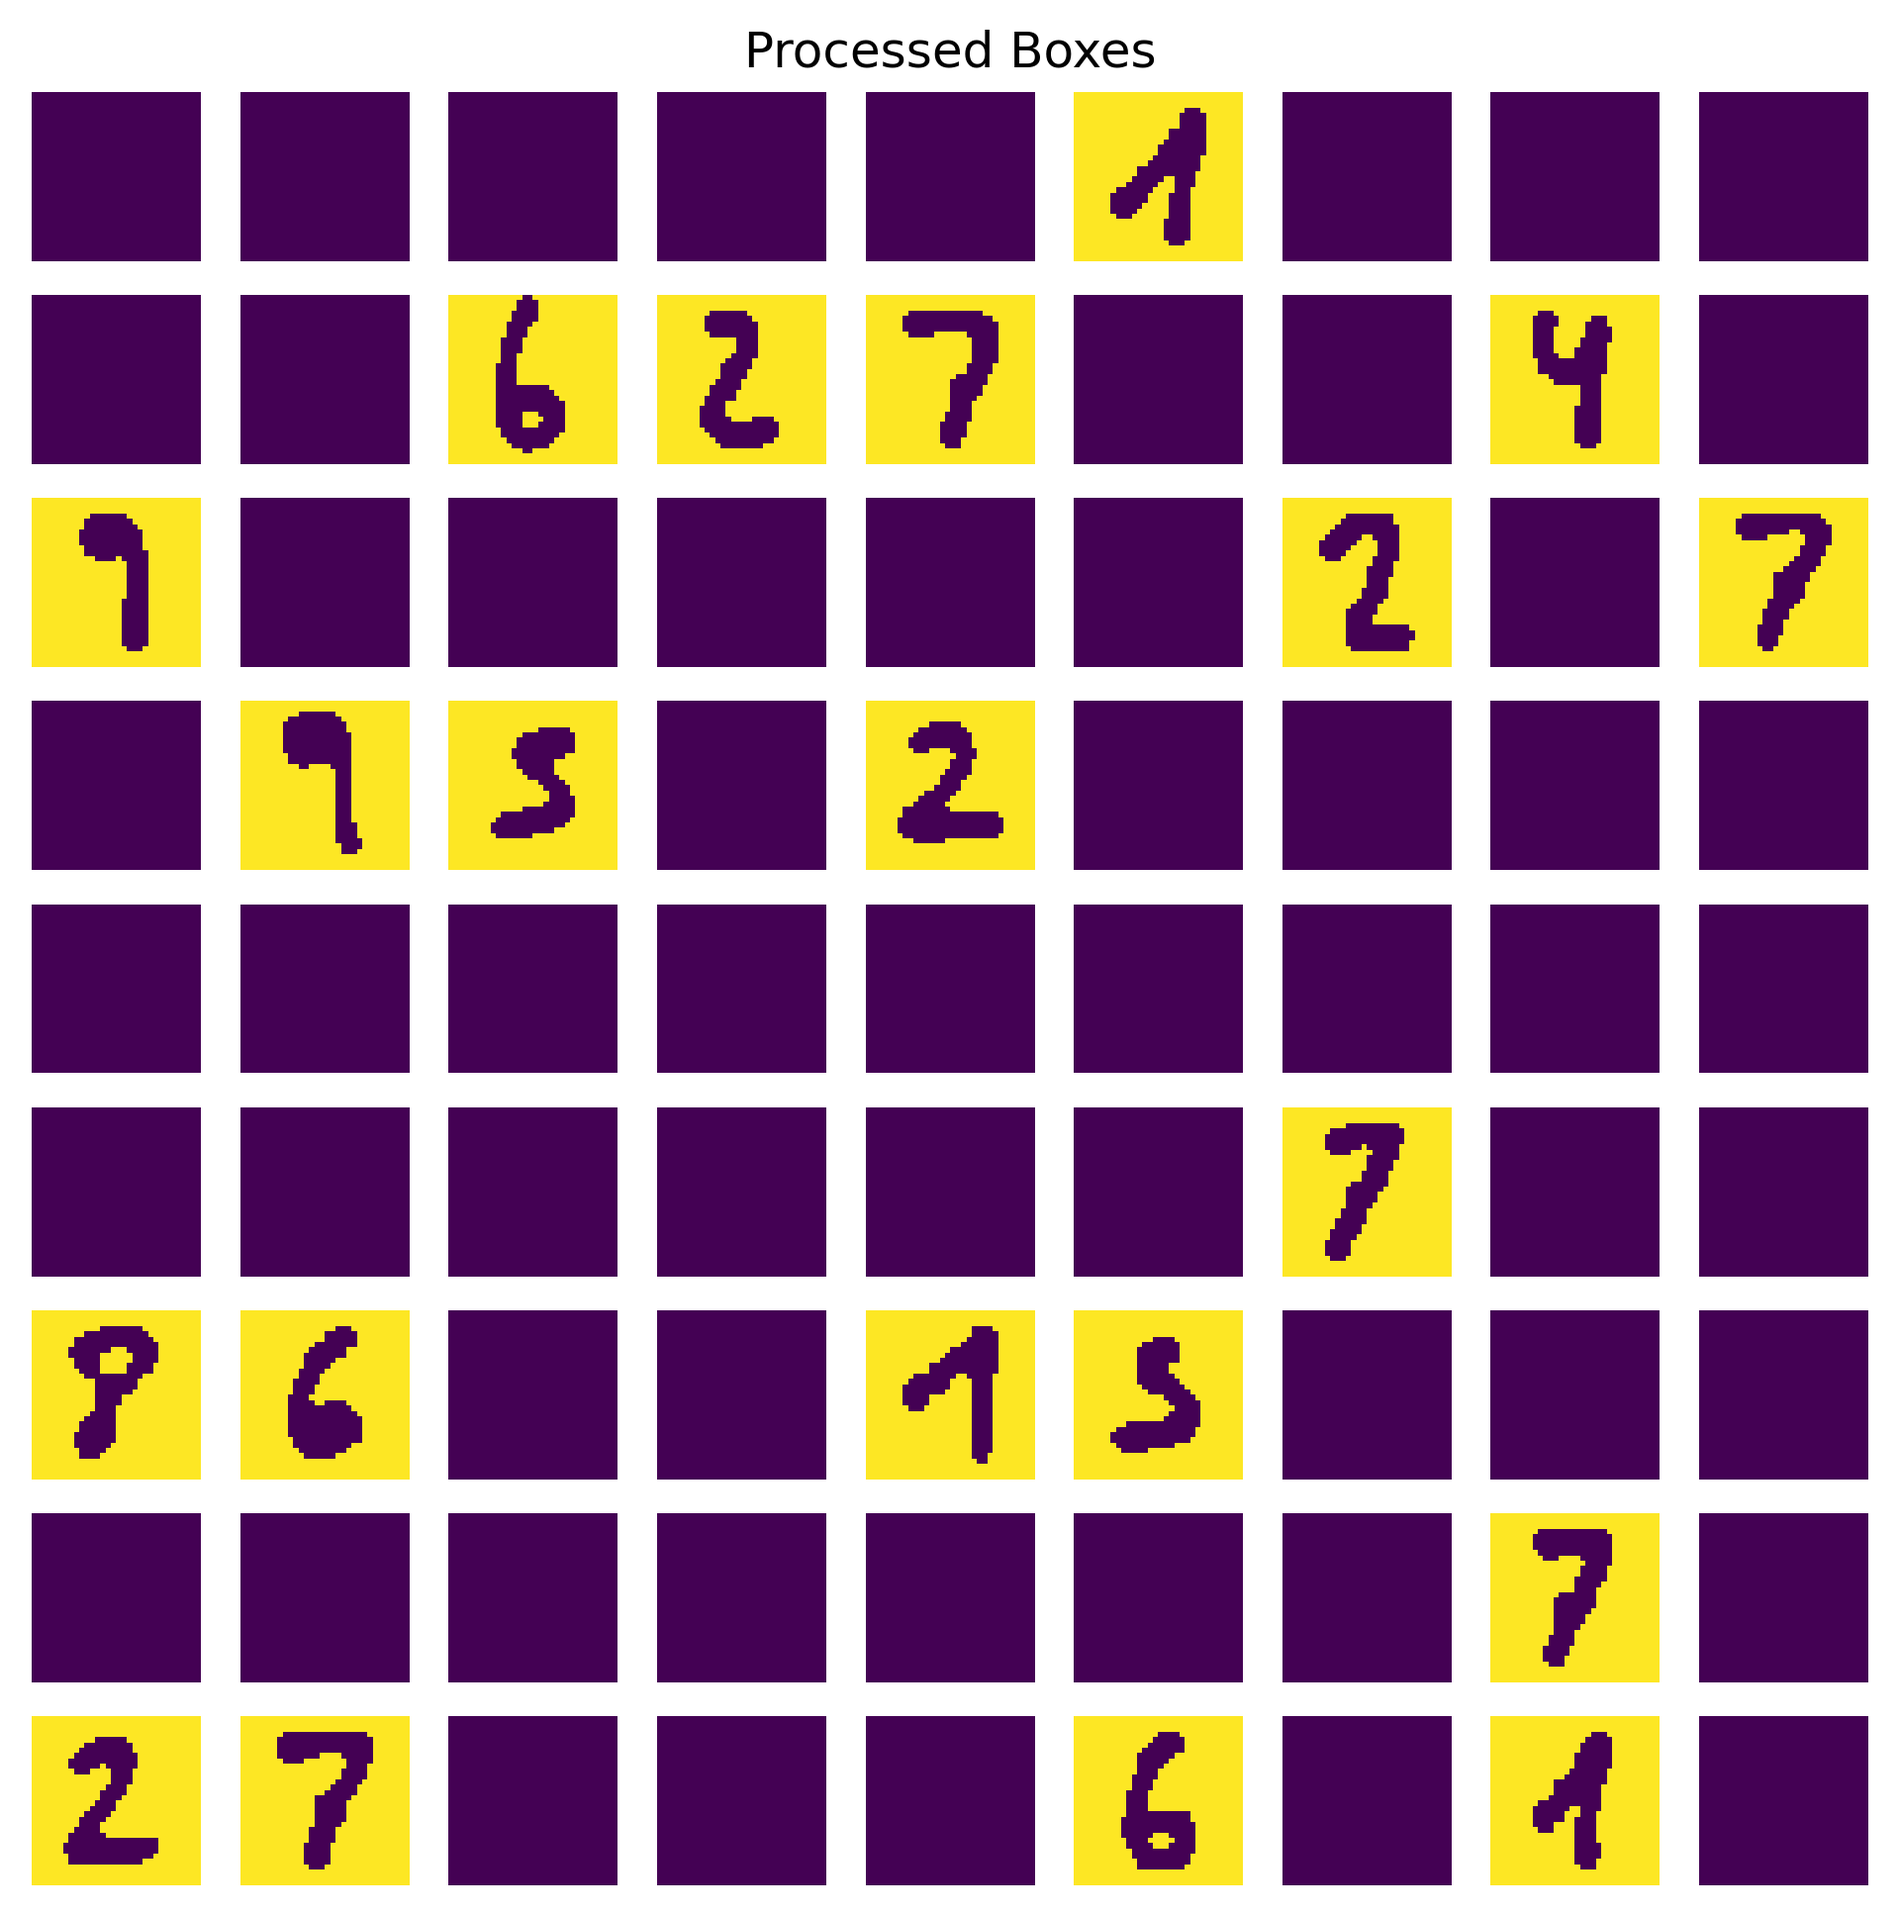
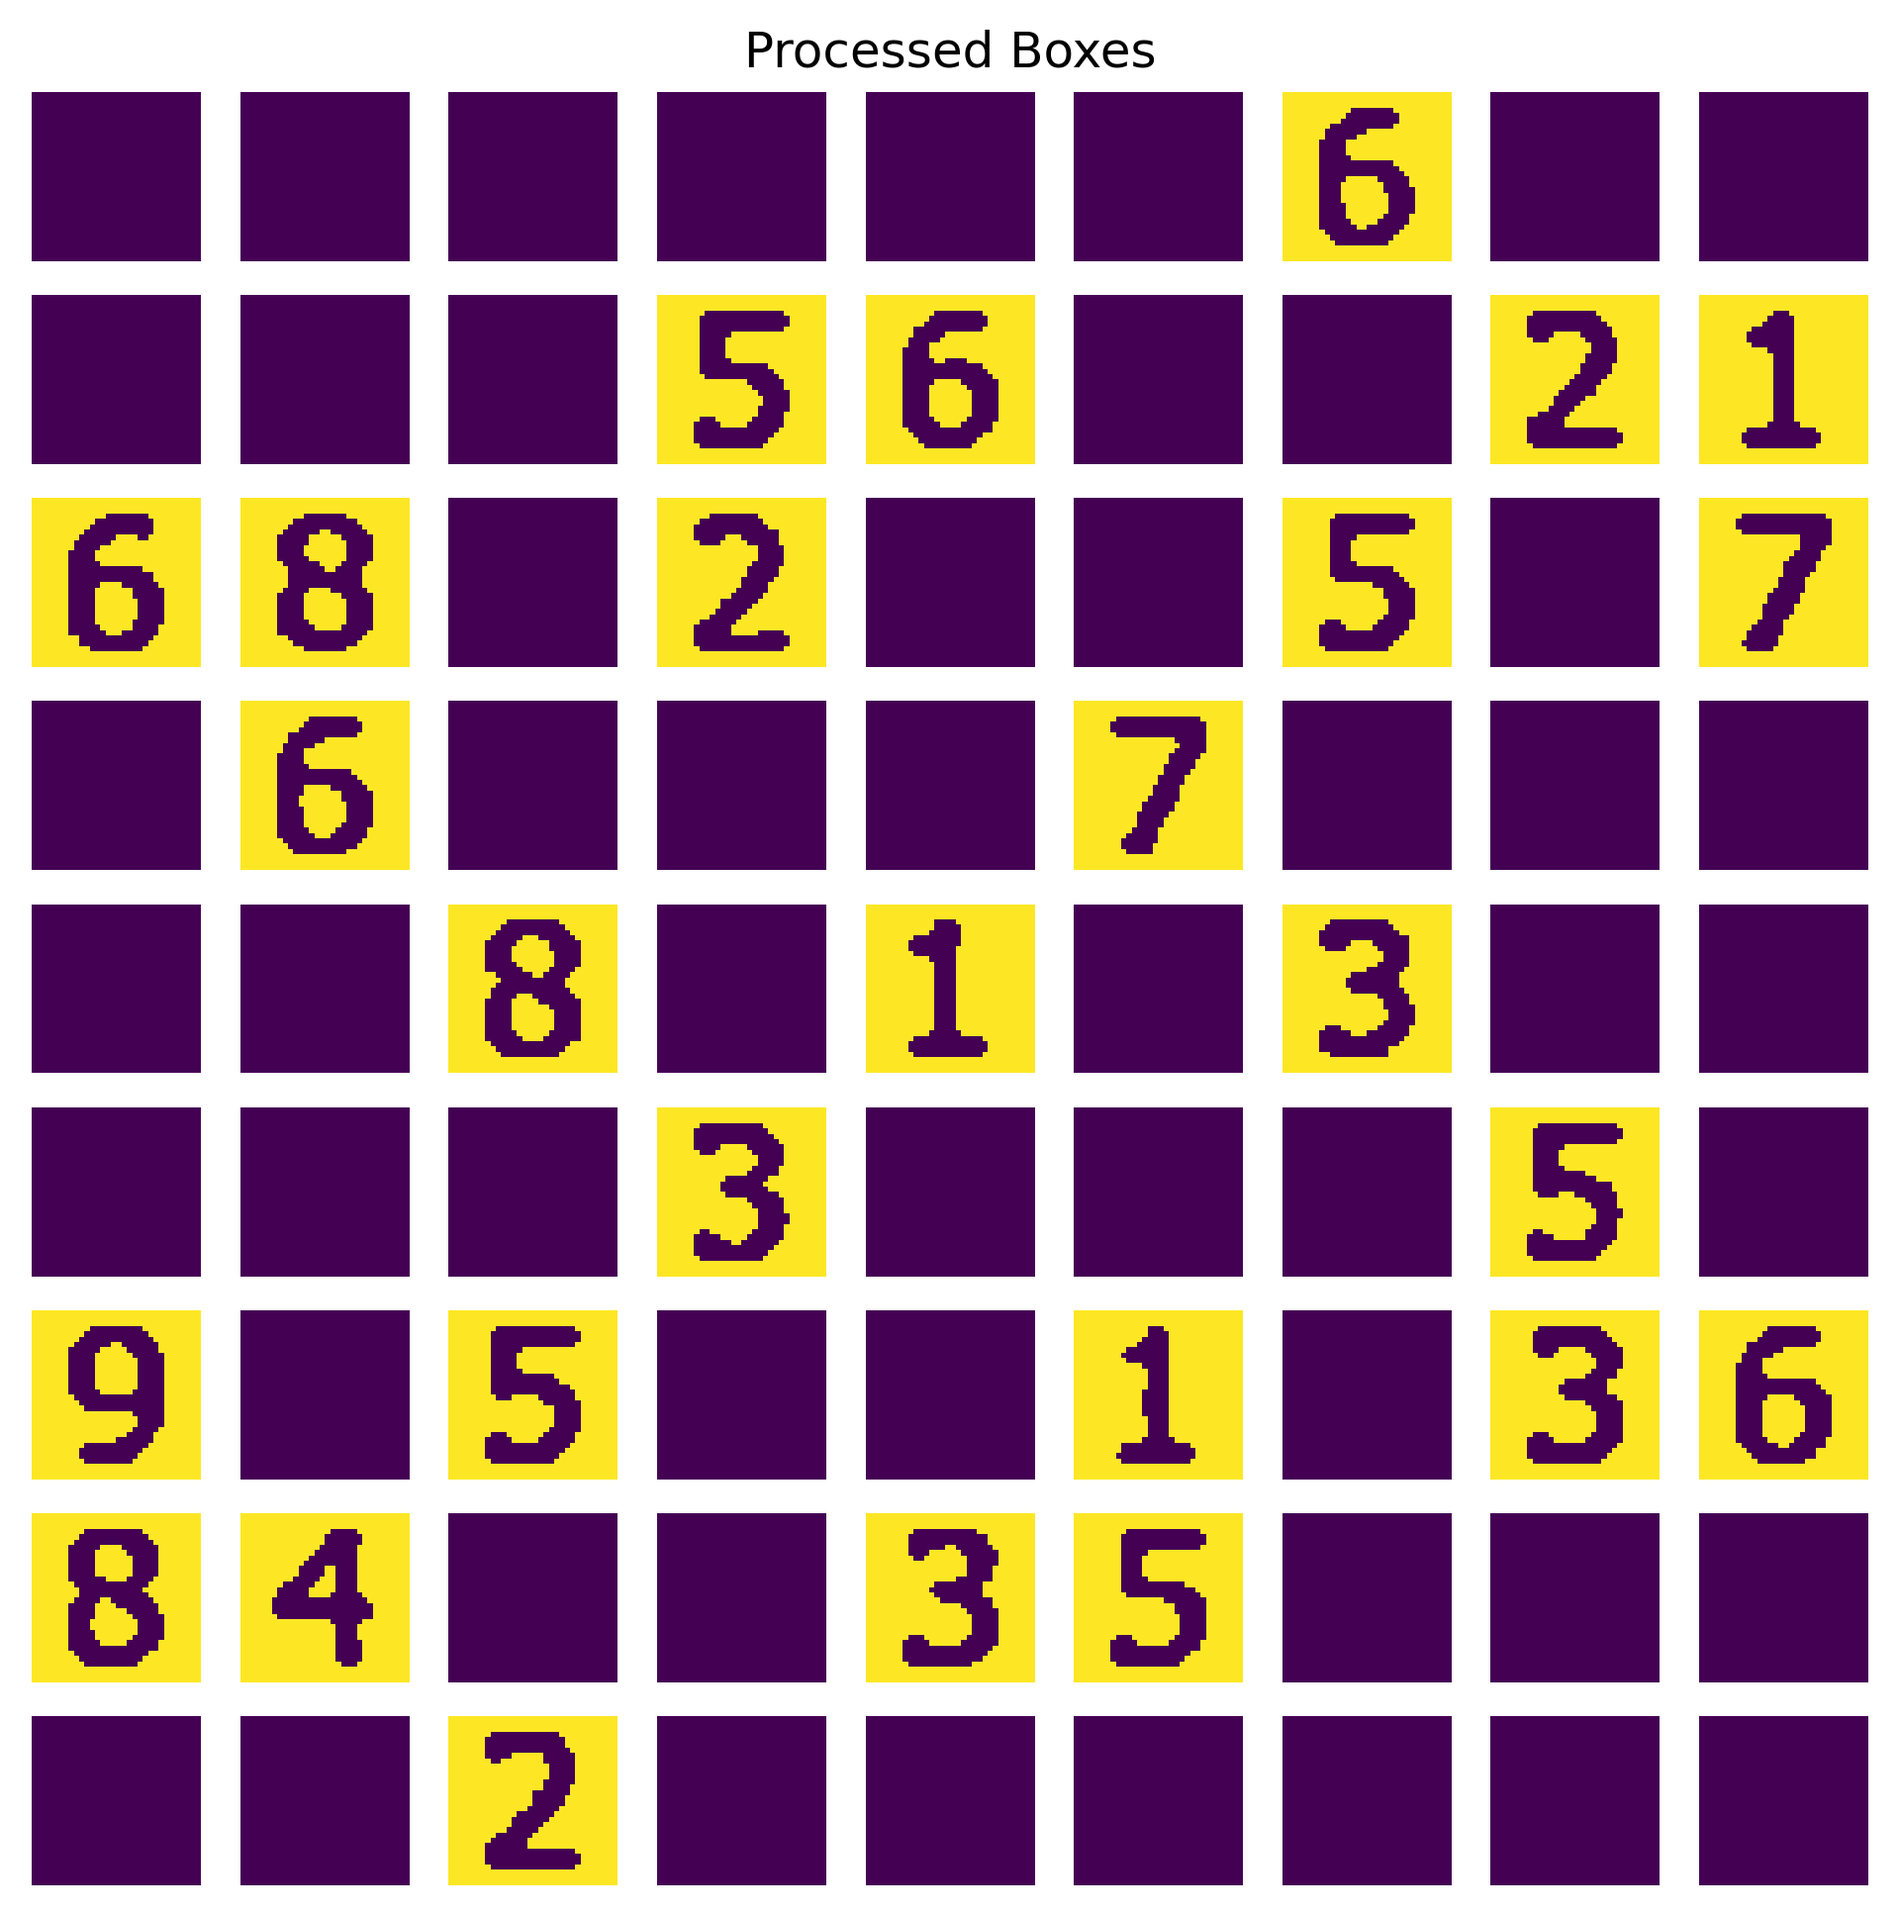
VERSIO FINAL

diff --git a/get_model_digit_toxo.py b/get_model_digit_toxo.py
@@ -93,7 +93,7 @@ def myModel():
     model.add((Conv2D(noOfFilters, sizeOfFilter1, activation='relu')))
     model.add(MaxPooling2D(pool_size=sizeOfPool))
     model.add((Conv2D(noOfFilters//2, sizeOfFilter2, activation='relu')))
-    model.add((Conv2D(noOfFilters//2, sizeOfFilter2, activation='relu')))
+    mod. Perel.add((Conv2D(noOfFilters//2, sizeOfFilter2, activation='relu')))
     model.add(MaxPooling2D(pool_size=sizeOfPool))
     model.add(Dropout(0.5))
  

diff --git a/main.py b/main.py
@@ -7,7 +7,7 @@ if __name__ == "__main__":
     model1 = load_model('models/digit_deta.h5') 
     model2 = load_model('models/mnist_model_toxo.h5') 
     
-    type_s = "Sudokus/handwritten/" #handwritten  #digital_sudokus
+    type_s = "Sudokus/digital_sudokus/" #handwritten  #digital_sudokus
     name = "Captura (2)"
     #######################################################################
     

diff --git a/models/gui_digit_recognizer.py b/models/gui_digit_recognizer.py
@@ -7,7 +7,7 @@ import win32gui
 from PIL import ImageGrab, Image
 import numpy as np
 
-model = load_model('mnist_model_toxo2.h5')
+model = load_model('digit_deta.h5')
 
 
 def predict_digit(img):
